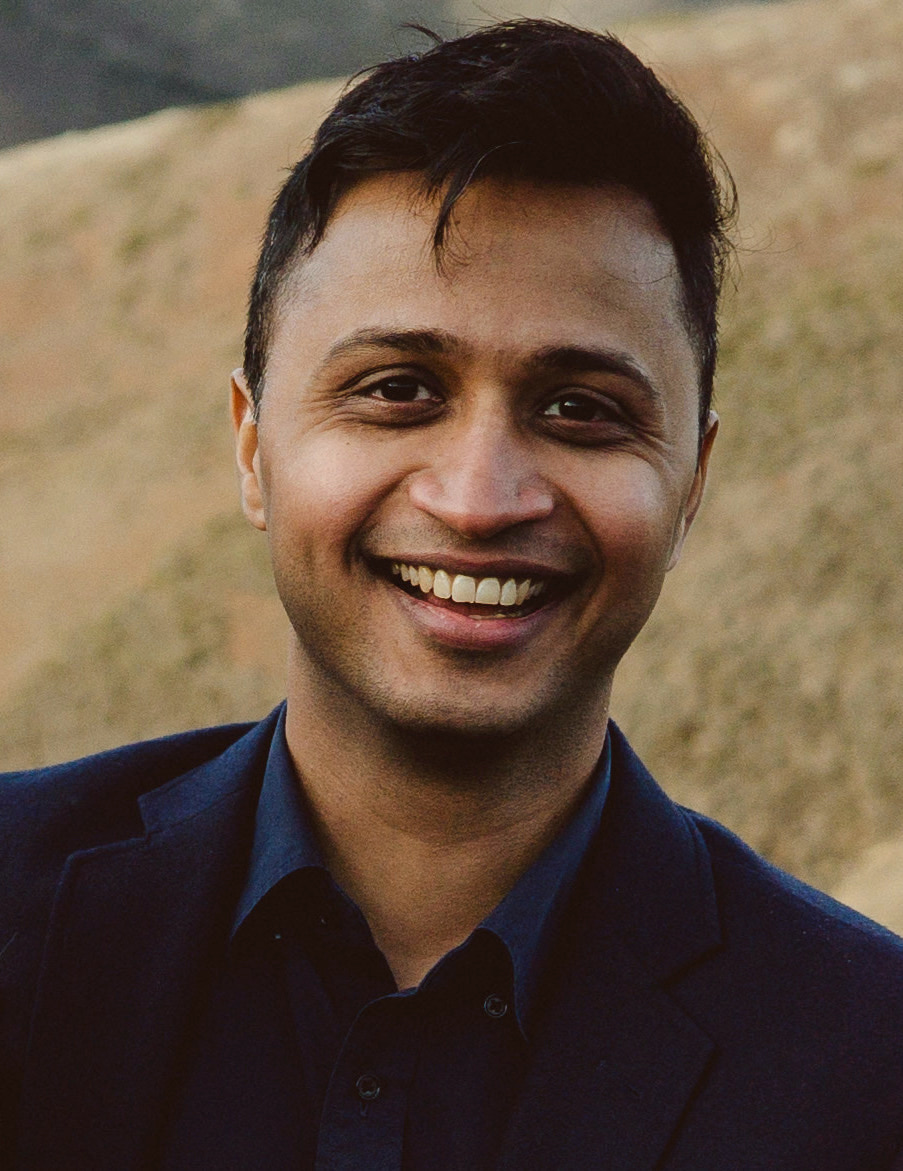
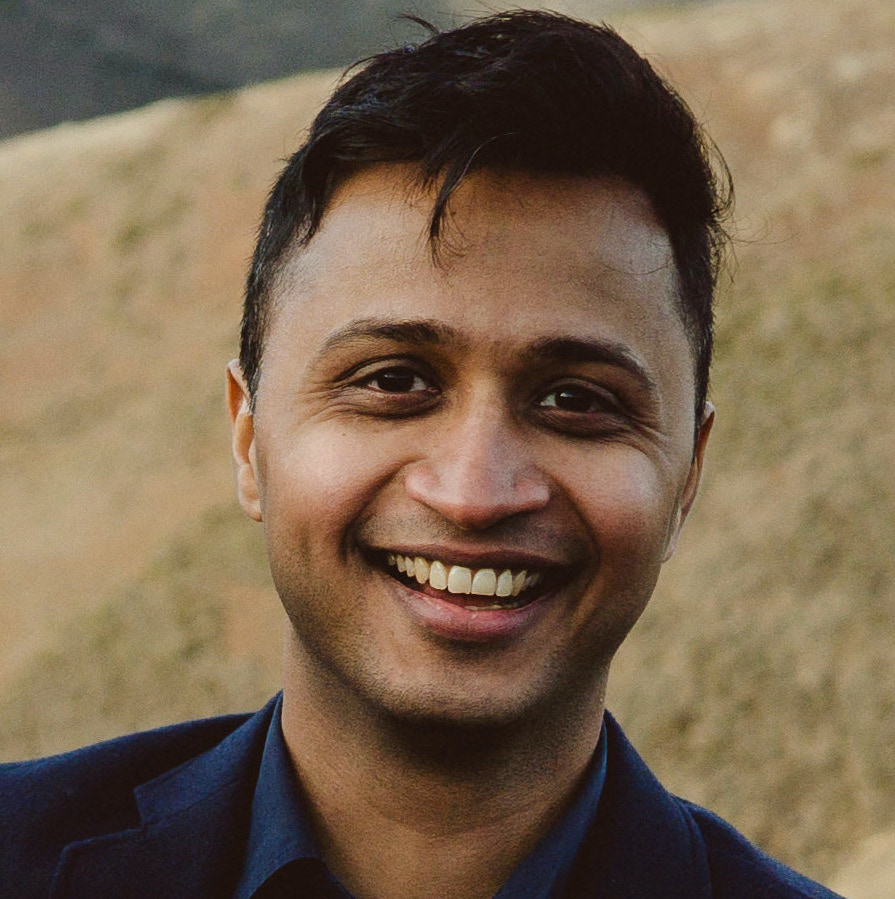
updates

diff --git a/index.html b/index.html
@@ -5,14 +5,14 @@
     <meta http-equiv="X-UA-Compatible" content="IE=edge">
     <meta name="viewport" content="width=device-width, initial-scale=1.0">
     <link href="style.css" rel="stylesheet">
-    <link rel="preload" as="image" href="me2.png" />
+    <link rel="preload" as="image" href="me-circle.png" />
     <title>Rachit Dubey</title>
 </head>
 <body>
     <div class = 'content'>
         <!-- picture -->
         <div class='main-title-wrapper'>
-            <div id = 'image-wrapper'><img src="me copy 2.png" width='95%'></div>
+            <div id = 'image-wrapper'><img src="me-circle.png" width='105%'></div>
             <div class = 'main-title'>
                 Rachit Dubey
             </div>

diff --git a/style.css b/style.css
@@ -26,7 +26,7 @@ a:hover {
     padding-bottom:10px;
     /* background:#eeeeee; */
     width:60%;
-    max-width:900px;
+    max-width:830px;
     margin-left:auto;
     margin-right:auto;
     /* border:2px solid black; */
@@ -70,7 +70,7 @@ a:hover {
 
 .main-title{
     font-size:30px;
-    padding-top:10px;
+    padding-top:5px;
     padding-bottom:0px;
     font-weight:bold;
 }
@@ -88,7 +88,7 @@ a:hover {
 
 #image-wrapper{
     width:calc(80vw * .66747154191); 
-    max-width:225px;
+    max-width:210px;
     /* Multiplier equal to image width/height */
     height: calc(80vw * .66747154191); 
     max-height: 233.6px;
